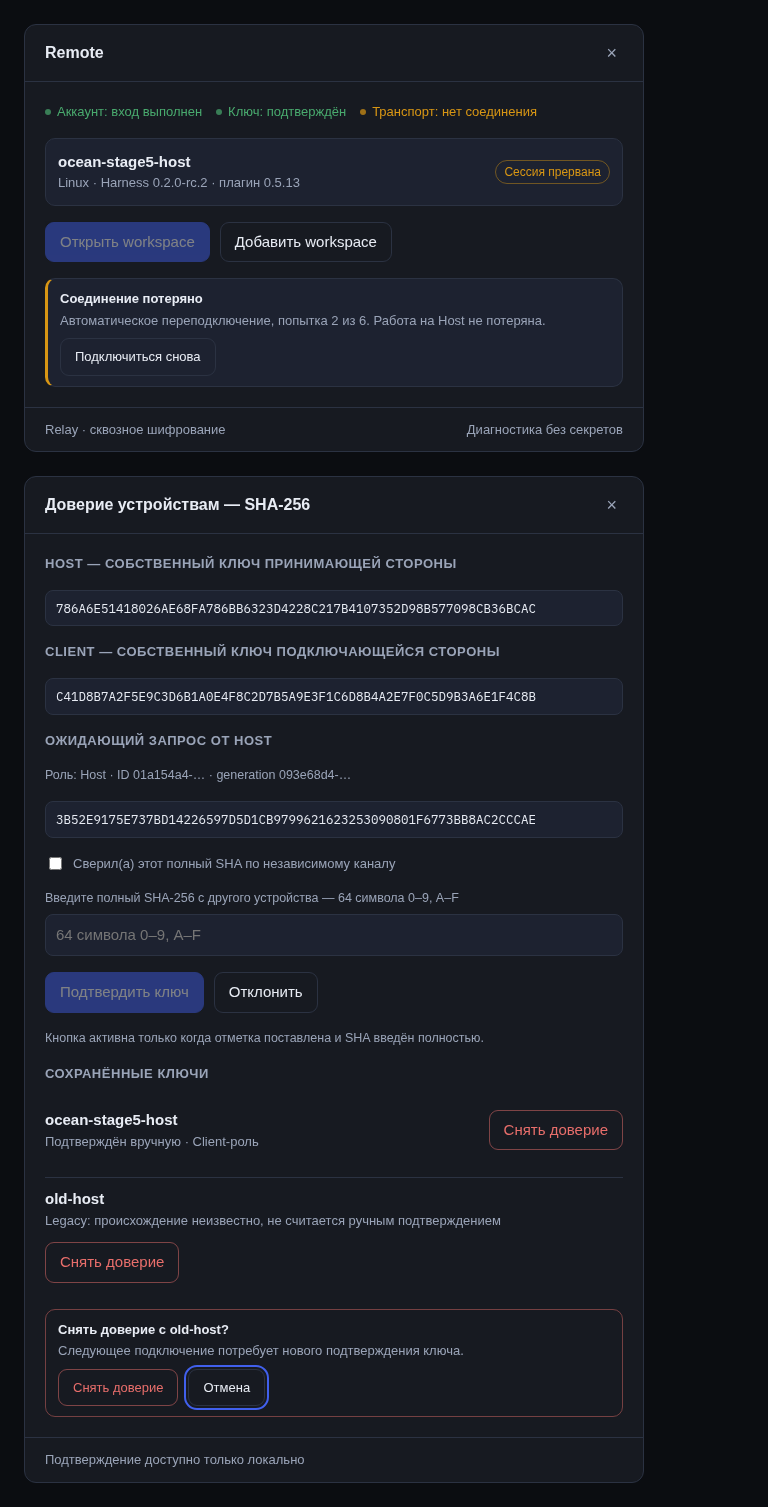
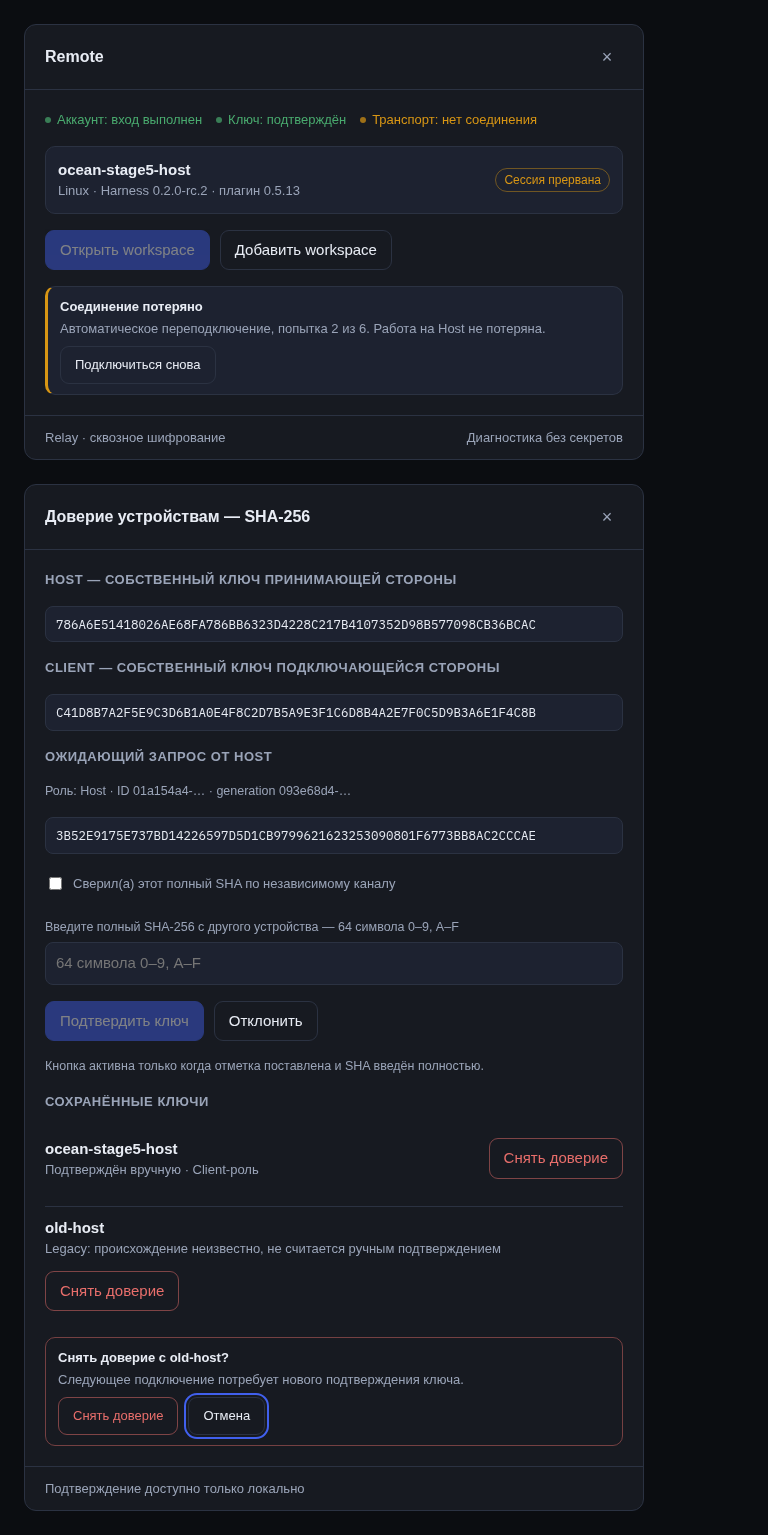
test: verify mockups at 200% zoom and reduced motion

diff --git a/docs/design/fork/mockups/settings-and-ocean.html b/docs/design/fork/mockups/settings-and-ocean.html
@@ -20,7 +20,7 @@
   .card--wide{width:700px}
   .card__head{display:flex;align-items:center;justify-content:space-between;padding:16px 20px;border-bottom:1px solid var(--border);gap:12px}
   .card__title{margin:0;font-weight:600;font-size:16px}
-  .card__close{background:transparent;border:0;color:var(--muted);font-size:18px;cursor:pointer;border-radius:6px}
+  .card__close{display:inline-flex;align-items:center;justify-content:center;min-width:32px;min-height:32px;background:transparent;border:0;color:var(--muted);font-size:18px;cursor:pointer;border-radius:6px}
   .card__close:focus-visible{outline:2px solid var(--accent);outline-offset:2px}
   .card__body{padding:20px;display:flex;flex-direction:column;gap:var(--gap)}
   .section-title{font-size:13px;letter-spacing:.04em;text-transform:uppercase;color:var(--muted);margin:0}
@@ -37,10 +37,10 @@
   .btn--danger{color:var(--danger);border-color:color-mix(in srgb,var(--danger) 50%,transparent)}
   .btn[disabled]{opacity:.45;cursor:not-allowed}
   .switch-row{display:flex;justify-content:space-between;align-items:center;gap:12px;padding:12px;border:1px solid var(--border);border-radius:10px;background:var(--surface-2)}
-  .switch{width:40px;height:22px;border-radius:999px;background:var(--border);position:relative;flex:0 0 auto}
-  .switch::after{content:"";position:absolute;top:3px;left:3px;width:16px;height:16px;border-radius:50%;background:var(--muted)}
+  .switch{width:44px;min-height:32px;border-radius:999px;background:var(--border);position:relative;flex:0 0 auto;border:0;cursor:pointer}
+  .switch::after{content:"";position:absolute;top:50%;left:4px;transform:translateY(-50%);width:16px;height:16px;border-radius:50%;background:var(--muted)}
   .switch--on{background:color-mix(in srgb,var(--accent) 55%,transparent)}
-  .switch--on::after{left:21px;background:#fff}
+  .switch--on::after{left:24px;background:#fff}
   .notice{border:1px solid var(--border);border-left:3px solid var(--warning);border-radius:10px;padding:10px 12px;font-size:13px;color:var(--muted);background:var(--surface-2)}
   .notice strong{display:block;color:var(--ink);margin-bottom:2px}
   .meta{display:grid;grid-template-columns:max-content 1fr;gap:6px 16px;font-size:13px;color:var(--muted);margin:0}
@@ -85,7 +85,7 @@
           <div class="host__name">Разрешить управление этим устройством</div>
           <p class="hint">Host сможет выполнять инструменты с правами этого профиля.</p>
         </div>
-        <span class="switch switch--on" role="switch" aria-checked="true" aria-label="Разрешить управление этим устройством"></span>
+        <button type="button" class="switch switch--on" role="switch" aria-checked="true" aria-label="Разрешить управление этим устройством"></button>
       </div>
 
       <h3 class="section-title">Подключение</h3>
@@ -98,7 +98,7 @@
       <h3 class="section-title">Не входит в поддержку релиза</h3>
       <div class="switch-row">
         <div><div class="host__name">Удалённый терминал</div><p class="hint">Выключен по умолчанию. Включается переключателем здесь или в конфигурации профиля; не входит в поддержку релиза.</p></div>
-        <span class="switch" role="switch" aria-checked="false" aria-label="Удалённый терминал"></span>
+        <button type="button" class="switch" role="switch" aria-checked="false" aria-label="Удалённый терминал"></button>
       </div>
 
       <h3 class="section-title">Предпросмотр портов</h3>

diff --git a/docs/design/fork/mockups/remote-card.html b/docs/design/fork/mockups/remote-card.html
@@ -20,7 +20,7 @@
   .card{background:var(--surface);border:1px solid var(--border);border-radius:var(--radius);width:620px;overflow:hidden}
   .card__head{display:flex;align-items:center;justify-content:space-between;padding:16px 20px;border-bottom:1px solid var(--border)}
   .card__title{margin:0;font-weight:600;font-size:16px}
-  .card__close{background:transparent;border:0;color:var(--muted);font-size:18px;cursor:pointer;border-radius:6px}
+  .card__close{display:inline-flex;align-items:center;justify-content:center;min-width:32px;min-height:32px;background:transparent;border:0;color:var(--muted);font-size:18px;cursor:pointer;border-radius:6px}
   .card__body{padding:20px;display:flex;flex-direction:column;gap:var(--gap)}
   .layers{display:flex;gap:14px;flex-wrap:wrap;font-size:13px;color:var(--muted);margin:0}
   .layer{display:inline-flex;align-items:center;gap:6px}
@@ -49,7 +49,7 @@
   .field input{background:var(--surface-2);border:1px solid var(--border);border-radius:8px;color:var(--ink);padding:9px 10px;font:inherit;width:100%}
   .field input:focus-visible{outline:2px solid var(--accent);outline-offset:2px}
   .hint{font-size:12.5px;color:var(--muted);margin:0}
-  .check{display:flex;gap:8px;align-items:flex-start;font-size:13px;color:var(--muted)}
+  .check{display:flex;gap:8px;align-items:flex-start;font-size:13px;color:var(--muted);min-height:32px;padding:4px 0;cursor:pointer}
   .pin{display:flex;justify-content:space-between;align-items:center;gap:12px;padding:10px 0;flex-wrap:wrap}
   .pin + .pin{border-top:1px solid var(--border)}
   .footer{display:flex;justify-content:space-between;align-items:center;gap:12px;padding:12px 20px;border-top:1px solid var(--border);font-size:13px;color:var(--muted);flex-wrap:wrap}

diff --git a/docs/design/fork/05-acceptance-checklist.ru.md b/docs/design/fork/05-acceptance-checklist.ru.md
@@ -1,0 +1,27 @@
+# Чек-лист приёмки дизайна (UX-AC1…UX-AC5)
+
+Статус: заполняется по мере работ. «Проверено» означает, что есть команда или артефакт, который можно повторить.
+
+| Пункт | Что требуется | Как проверяется | Статус |
+| --- | --- | --- | --- |
+| UX-AC1 | Пользовательский путь 02–05 остаётся рабочим, security-тесты проходят на тех же контрактах | `pnpm -r test`, `pnpm --filter './packages/plugin' test`, чек-листы [установки](../../install-acceptance.ru.md) и [сессии](../../session-acceptance.ru.md) | Частично: тесты зелёные (494), живые двухмашинные прогоны ждут доступа к bigpc |
+| UX-AC2 | Все состояния отображены и проверены: неверный пароль, истечение запроса, смена ключа, частичный отзыв, потеря сети | матрица состояний [01-screen-map](01-screen-map.ru.md) + живые прогоны | Частично: неверный пароль/смена ключа/обрыв покрыты кодом и макетами; истечение pending и частичный отзыв в реальном UI не прогонялись |
+| UX-AC3 | Клавиатура и скринридер, нет фокуса за модалью и потери фокуса после закрытия | `pnpm check:mockups` (видимый фокус у всех контролов), ручной проход по диалогам | Частично: макеты проверены, живой интерфейс — нет |
+| UX-AC4 | Визуальная проверка на согласованных viewport/темах/zoom; нет обрезанного SHA и скрытых последствий | `pnpm check:mockups` (360/768/1440/720 = 200% зум, SHA 64 символа), `pnpm check:contrast` | Частично: макеты проверены; светлая тема и живой интерфейс — нет |
+| UX-AC5 | Макеты и фактический UI показаны пользователю, ассеты/лицензии задокументированы | [макеты](mockups/README.ru.md), [UI kit](03-ui-kit.ru.md) | Ожидает показа: макеты готовы, визуальное направление не согласовано; лицензия base64-иконок вендоров остаётся открытым вопросом |
+
+## Что автоматизировано
+
+| Команда | Покрывает |
+| --- | --- |
+| `pnpm check:contrast` | 26 пар цветов консоли Ocean в двух темах, включая границы контролов и фокус |
+| `pnpm check:mockups` | макеты: нет горизонтального скролла, SHA не обрезан, доступные имена, видимый фокус, цели ≥ 32 px, нет анимации при `prefers-reduced-motion` |
+| `pnpm -r test` | функциональные и security-тесты плагина и сервера |
+
+Обе проверки дизайна требуют Playwright только для `check:mockups`; без него шаг падает, а не пропускается молча.
+
+## Что остаётся ручным
+
+- Согласование визуального направления пользователем (UX-AC5).
+- Живой проход по интерфейсу в обеих темах и на реальных диалогах (фокус-трап, возврат фокуса, скринридер).
+- Двухмашинные сценарии (обрыв, отзыв, смена ключа) — ждут доступа к bigpc.

diff --git a/docs/CHANGELOG.md b/docs/CHANGELOG.md
@@ -1,6 +1,6 @@
 ## Unreleased
 
-- Форк: `pnpm check:mockups` проверяет макеты на 360/768/1440 (нет горизонтального скролла, поля SHA по 64 символа, доступные имена, видимый фокус у всех фокусируемых контролов) и умеет перегенерировать PNG; без Playwright шаг падает вместо тихого пропуска. Попутно исправлено переполнение таблицы в макете консоли.
+- Форк: `pnpm check:mockups` проверяет макеты на 360/768/1440 плюс 720 px (200% зума), отсутствие анимации при `prefers-reduced-motion` и цели ≥ 32 px, поля SHA по 64 символа, доступные имена и видимый фокус; умеет перегенерировать PNG; без Playwright шаг падает вместо тихого пропуска. Попутно исправлено переполнение таблицы в макете консоли.
 
 - Форк: добавлена автоматическая проверка контраста палитры консоли (обе темы, 26 пар, включая границы контролов и фокус), шаг CI и тест; для границ интерактивных элементов введён токен `--border-strong`.
 

diff --git a/docs/design/fork/mockups/README.ru.md b/docs/design/fork/mockups/README.ru.md
@@ -33,7 +33,7 @@
 - у каждого фокусируемого контрола видимый индикатор фокуса (`outline` или `box-shadow`); `disabled` исключены как недоступные фокусу;
 - есть заголовки разделов для навигации.
 
-Нужен Playwright, поэтому это **локальная проверка дизайна**. Если Playwright не найден, скрипт **падает** с перечнем причин, а не печатает успех; осознанный пропуск — `--allow-skip`. Флаг `--write-shots` заново рендерит PNG в этой папке.
+Проверяются также ширина 720 px (примерно 200% зума от 1440), отсутствие анимации при `prefers-reduced-motion` и размер целей не меньше 32 px. Нужен Playwright, поэтому это **локальная проверка дизайна**. Если Playwright не найден, скрипт **падает** с перечнем причин, а не печатает успех; осознанный пропуск — `--allow-skip`. Флаг `--write-shots` заново рендерит PNG в этой папке.
 
 ## Что проверено по макету
 

diff --git a/docs/design/fork/README.ru.md b/docs/design/fork/README.ru.md
@@ -23,4 +23,6 @@
 
 ## Приёмка (UX-AC1…UX-AC5)
 
+Чек-лист с текущими статусами и способом проверки каждого пункта: [05-acceptance-checklist.ru.md](05-acceptance-checklist.ru.md).
+
 Каждый пункт закрывается отдельно и с доказательством: walkthrough 02–05, матрица состояний, клавиатура и контраст, viewport/zoom, показ макетов пользователю.
